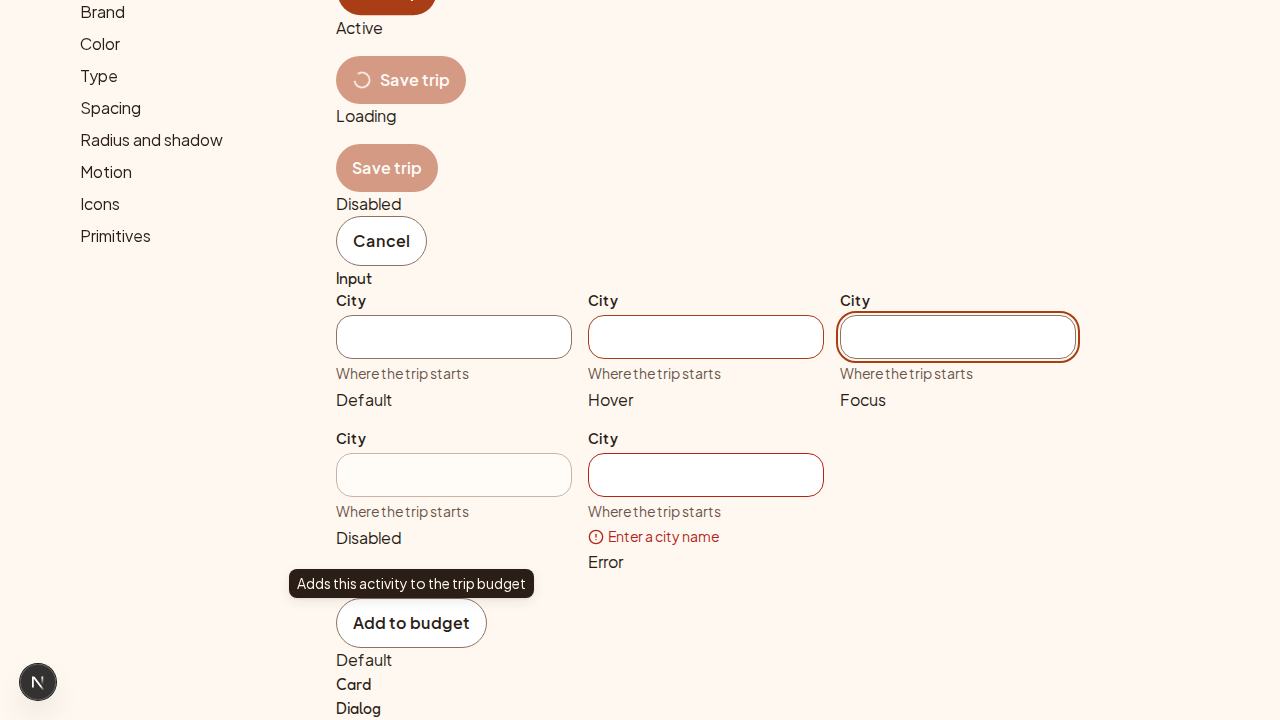
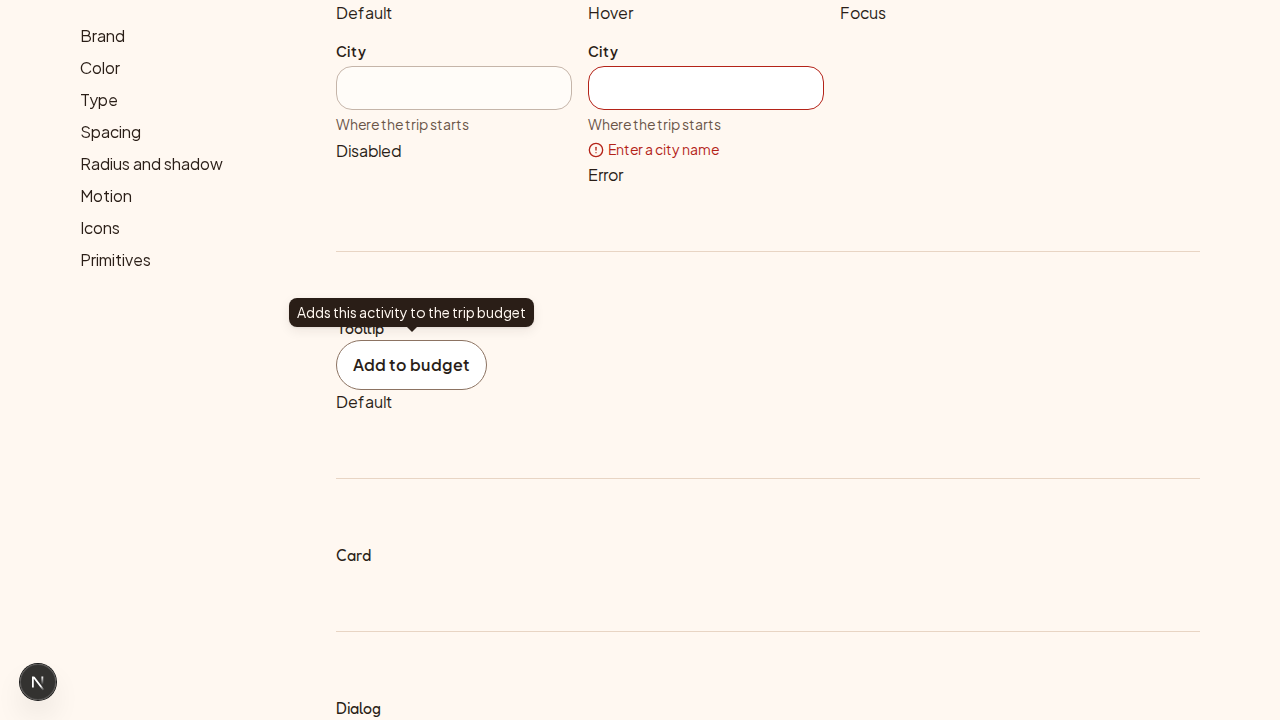
chore(design-system): re-capture visual gate evidence after round 2 fix
Refs #1

diff --git a/features/001-design-system/log.md b/features/001-design-system/log.md
@@ -303,3 +303,16 @@ Three new, real, in-scope items this round:
 This is the last gate round (loop cap 2); after verifying this fix,
 remaining out-of-scope requests stay logged against their tasks and
 the run continues at Step 1 regardless of further gate feedback.
+
+## 2026-09-26 visual gate: fix round 2
+implementer (sonnet): removed first-section divider exemption; added
+  same divider class to all 6 Primitives demo sub-sections; nav
+  `md:pt-6`; Tooltip `sideOffset={8}` + `<Arrow className="fill-text">`
+  (cc0b443)
+orchestrator verified: e2e @T01|@T02|@T04|@T05|@T06|@T07|@T08|@T13|
+  @T15|@smoke 34/34, typecheck clean, re-captured evidence/gate/
+  (desktop 31/31, mobile 29/29)
+Loop cap reached (2/2 gate-fix rounds). Any further gate feedback
+gets logged and carried to the PR; run continues at Step 1
+regardless.
+visual gate: waiting (final)
